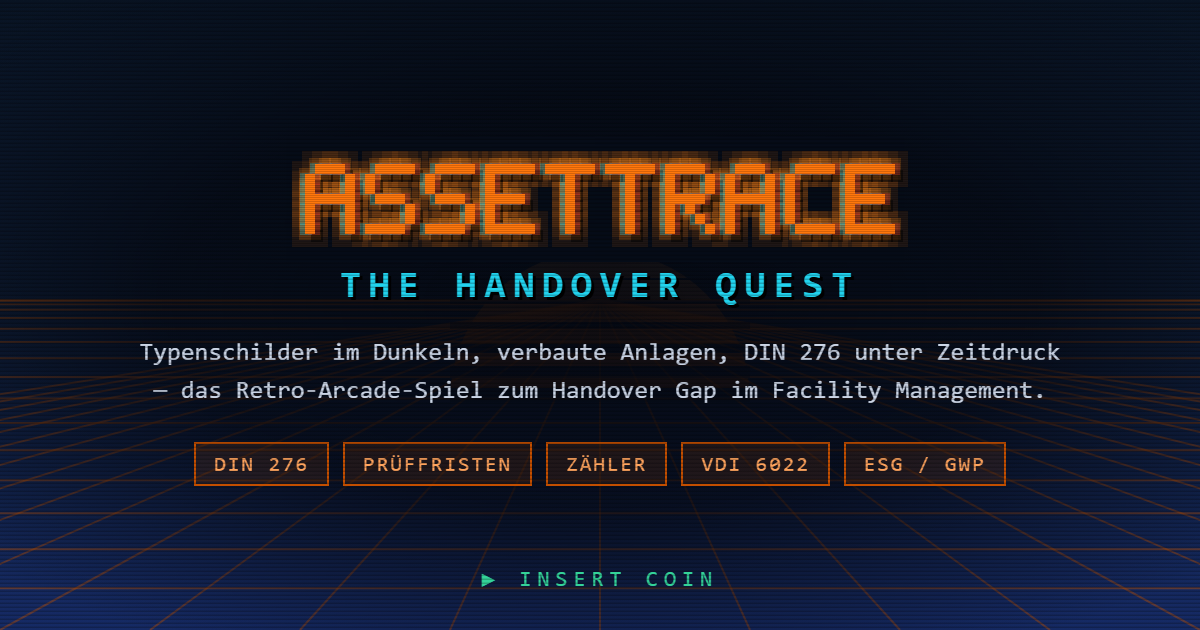
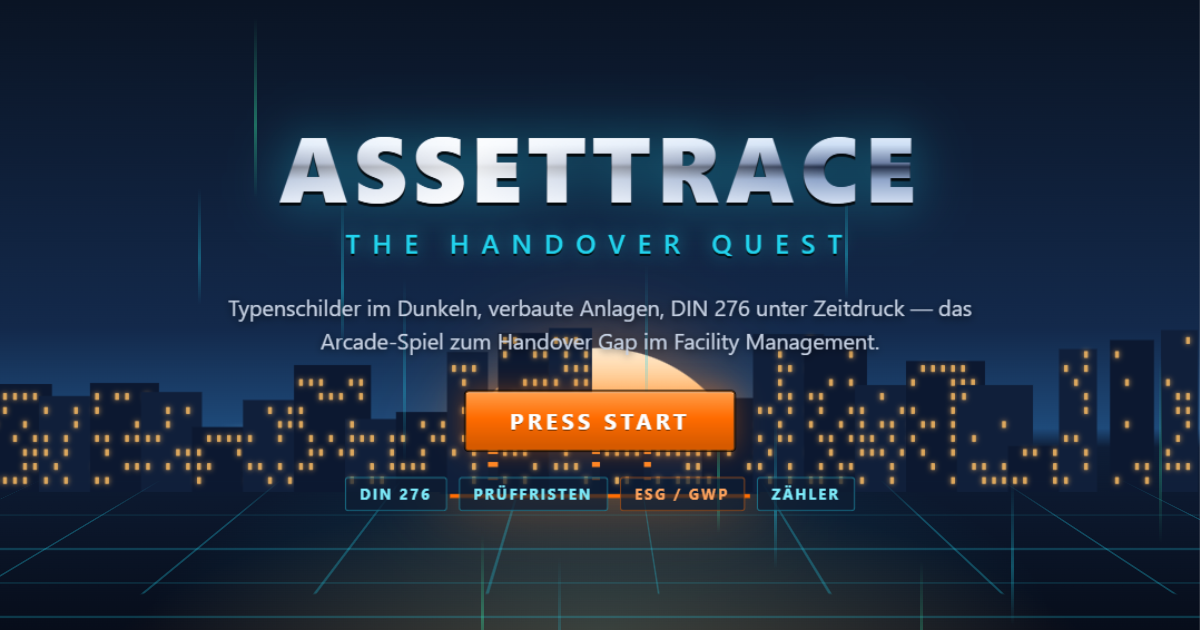
feat: v3.0.0 — HD-Re-Skin komplett: Version, README, OG-Karte
- Version 3.0.0 (CFG.VERSION, ?v=, Dockerfile-LABEL, Image-Tag)
- README: v3.0-Abschnitt mit Umsteigungs-Tabelle, Schrift-Abschnitt auf
  die pxText-Weiche (HD smooth / Retro Bitmap) umgeschrieben, Render-
  Aufloesung + Tiefenschaerfe + Performance-Guard dokumentiert, ?retro=1
  in der Feature-Liste
- og-image.png neu im HD-Stil gerendert (Browser-Rasterisierung, 1200x630):
  Chrome-Titel, Skyline, Sonnen-Streak, Datenregen, PRESS START, Badges

diff --git a/index.html b/index.html
@@ -46,7 +46,7 @@
        reichte, damit wiederkehrende Besucher dauerhaft die alte Fassung sahen.
        Mitzählen schadet trotzdem nicht: es macht einen Release im Netzwerk-Tab
        sichtbar und umgeht notfalls einen bereits vergifteten Cache-Eintrag. -->
-  <link rel="stylesheet" href="style.css?v=2.2.1" />
+  <link rel="stylesheet" href="style.css?v=3.0.0" />
   <!-- No external fonts: built-in monospace mimics 8-bit terminal feel (zero runtime CDN requests). -->
 </head>
 <body>
@@ -118,6 +118,6 @@
     </div>
   </div>
 
-  <script src="bundle.js?v=2.2.1"></script>
+  <script src="bundle.js?v=3.0.0"></script>
 </body>
 </html>

diff --git a/bundle.js b/bundle.js
@@ -91,7 +91,7 @@
     BUILDING_ASSETS: 400,
     FIELDS_PER_RECORD: 8,
 
-    VERSION: "2.2.1",
+    VERSION: "3.0.0",
     HS_KEY: "at_handover_hs_v2",
   };
 

diff --git a/README.md b/README.md
@@ -1,15 +1,34 @@
-# AssetTrace: The Handover Quest 🕹  v2.0
+# AssetTrace: The Handover Quest 🕹  v3.0
 
-Ein **Retro-Arcade-Spiel** im Browser — Pixel-Look, Chrome und Trance-Sound der späten 90er. Es macht den realen
-**Handover Gap** im Facility Management spielbar: der Spieler ist Tech Inspector,
-erfasst Anlagen gegen einen laufenden Übergabetermin und verwandelt visuelle
-Daten in strukturierte, CAFM-fähige FM-Daten.
+Ein **Arcade-Spiel** im Browser mit **High-End-Vektorgrafik**: weiche Verläufe,
+Tiefenschärfe, Bloom und Ambient-Licht — alles prozedural, zur Laufzeit erzeugt.
+Es macht den realen **Handover Gap** im Facility Management spielbar: der
+Spieler ist Tech Inspector, erfasst Anlagen gegen einen laufenden Übergabetermin
+und verwandelt visuelle Daten in strukturierte, CAFM-fähige FM-Daten.
 
 - **Pure HTML5 Canvas + Vanilla JS + Web Audio API.** Kein Framework, kein Build-Schritt.
-- **Keine externen Assets** — Pixelgrafik und Chiptune werden zur Laufzeit erzeugt.
-- **~130 KB gesamt.** Lädt sofort, läuft offline, überall einbettbar.
+- **Keine externen Assets** — Grafik, Licht und Musik werden zur Laufzeit erzeugt.
+- **~140 KB gesamt.** Lädt sofort, läuft offline, überall einbettbar.
 - **Desktop + Mobile** (Touch-Steuerung wird automatisch erkannt).
 - **Einbettbar** per `<iframe>` oder `<assettrace-game>` Web Component in jedes CMS.
+- **`?retro=1`** schaltet auf den Pixel-/CRT-Look früherer Versionen um
+  (Arcade-Gag für Messen und Nostalgie).
+
+## Was v3.0 gegenüber v2.x ändert
+
+v2.x war Pixel-Art. v3.0 ersetzt den kompletten Render-Layer durch eine
+HD-Vektorpipeline — Gameplay, Physik und Inhalte sind unverändert:
+
+| | v2.x | v3.0 |
+|---|---|---|
+| Auflösung | 480×270-Buffer, `pixelated`-Upscale | Native Display-Auflösung (DPR, Deckel 2) |
+| Sprites | handgesetzte Pixel | Vektorformen: Metallverläufe, Rundungen, LEDs mit Eigenlicht |
+| Spieler | 12×16-Pixel-Sprite | Kapselfigur mit Laufzyklus, Squash & Stretch, Motion-Trail, Visor-Bloom |
+| Text im Canvas | 5×7-Bitmap-Font | Anti-Aliased System-Font mit weichem Schatten |
+| Tiefe | Fog + Grading | + echte Tiefenschärfe (hinterste Ebene defokussiert) + Ambient-Staub |
+| Partikel | 1px-Quadrate | weiche additive Kreise |
+| Retro-Modus | — | `?retro=1` stellt den v2-Look wieder her |
+| Audio | Chiptune (v2.0–2.1) | Trance-Loop mit Supersaw + Hall (seit v2.2) |
 
 ## Was v2.0 gegenüber v1 ändert
 
@@ -405,32 +424,25 @@ Wandöffnungen mit Außengerüst, Kabeltrommeln, Paletten), `plant` (dichte
 Installation, kühl, Notbeleuchtung), `handover` (in Betrieb, wärmer, plus
 Aktenordner-Stapel — das Papier, das das Produkt ersetzen soll).
 
-### Schrift: Bitmap-Font im Canvas, Monospace im DOM
+### Schrift: eine Weiche, zwei Renderer
 
-Die Beschriftungen im Spielfeld waren zunächst mit `ctx.fillText` in 8px Courier
-gezeichnet. Das war der Fehler: der Browser glättet kleine Schrift zu grauen
-Halbpixeln, und `image-rendering: pixelated` vergrößert diese Unschärfe dann auf
-das Doppelte. Ergebnis war Matsch — genau bei der Statuszeile, die das ganze
-Feedback-System trägt.
+Die Beschriftungen im Spielfeld haben eine Geschichte: v1 nutzte `ctx.fillText`
+in 8px Courier — der Browser glättet kleine Schrift zu grauen Halbpixeln, und
+mit `image-rendering: pixelated` wurde daraus Matsch. v2 antwortete mit einem
+**handgesetzten 5×7-Bitmap-Font** (`pxText()`/`GLYPHS`). v3.0 dreht es zurück,
+aber richtig: der Canvas rendert nativ in Display-Auflösung, also ist
+Anti-Aliasing jetzt kein Bug, sondern der Look.
 
-Jetzt zeichnet `pxText()` einen **handgesetzten 5×7-Bitmap-Font** Pixel für Pixel
-(`GLYPHS` in Section 16). Kein Antialiasing, also scharf bei jedem Skalierungsfaktor
-— und das ist ohnehin die Technik, die die Vorbilder benutzt haben.
+- `pxText()` ist die zentrale Weiche: im HD-Modus delegiert es an `text()`
+  (Anti-Aliased System-Font mit weichem Schatten statt Pixel-Kontur), mit
+  `?retro=1` zeichnet es exakt den Bitmap-Font von v2.
+- Gleiche Baseline-Semantik wie immer (`y` = Grundlinie der 7px-Box) — keine
+  Aufrufstelle musste angefasst werden.
+- `pxWidth()` misst im HD-Modus per `measureText`, im Retro-Modus `len*6-1`.
+- Der Bitmap-Font bleibt außerdem für den Datenregen (Titel/Boss) erhalten.
 
-- Nur Großbuchstaben. Deutsches `ß` wird von `toUpperCase()` automatisch zu `SS`,
-  Umlaute werden als Basisglyphe + zwei Punkte darüber gezeichnet (`UML`).
-- `pxText(text, x, baselineY, color, {center, outline, plain})`. `outline` zeichnet
-  eine 4-fache schwarze Kontur — nötig für Floater und Anzeigen, die über beliebiger
-  Kulisse liegen.
-- Horizontale Pixelläufe werden zu einem `fillRect` zusammengefasst, damit die
-  Zeichenlast niedrig bleibt.
-- Breite messen mit `pxWidth(t)` (= `len*6-1`), nicht mit `measureText`.
-
-Die **DOM-Panels** sind der umgekehrte Fall: dort ist Lesbarkeit wichtiger als
-Pixel-Look, weil dort die Fachinhalte stehen. Deshalb `Consolas / DejaVu Sans Mono /
-Menlo` statt Courier New, `-webkit-font-smoothing: antialiased` statt `none`,
-hellere Sekundärfarbe (`--at-dim`) und durchgehend eine Stufe größere Schriftgrade.
-Der Retro-Charakter kommt vom Canvas, nicht von unleserlichen Panels.
+Die **DOM-Panels** bleiben wie gehabt auf Lesbarkeit getrimmt (Monospace-Stack,
+`antialiased`, hellere Sekundärfarbe).
 
 Langer Report: `.at-panel--report` ist eine Flex-Spalte aus scrollendem
 `.at-rep-body` und fixierter `.at-rep-foot`. Ohne das rutschen „weiter" und der
@@ -460,10 +472,14 @@ schiefgegangen und wurden per Rechnung gefunden, nicht per Auge:
 Damit lässt sich jede Szene direkt anspringen (z. B. für Screenshots) oder eine
 Ebene ohne Vorlauf starten.
 
-The internal render resolution is **480×270** and CSS upscales it with
-`image-rendering: pixelated`, which is what produces the authentic crunchy 8-bit
-look on any display. The CRT scanline + vignette overlay is a pure-CSS layer
-(`#at-crt-overlay`).
+The internal logic resolution is **480×270**; in HD the canvas backing store runs
+at native display resolution (devicePixelRatio, capped at 2) and the frame opens
+with a scale transform — every gradient, glow and curve renders pixel-perfect.
+The rearmost scenery plane is defocused via `ctx.filter: blur` for real depth of
+field; a rolling frame-time guard turns the blur off by itself if the frame rate
+sustains below ~42 fps. With `?retro=1` the backing store drops back to 960×540
+with `image-rendering: pixelated` and the CRT scanline overlay
+(`#at-crt-overlay`) returns.
 
 ---
 
